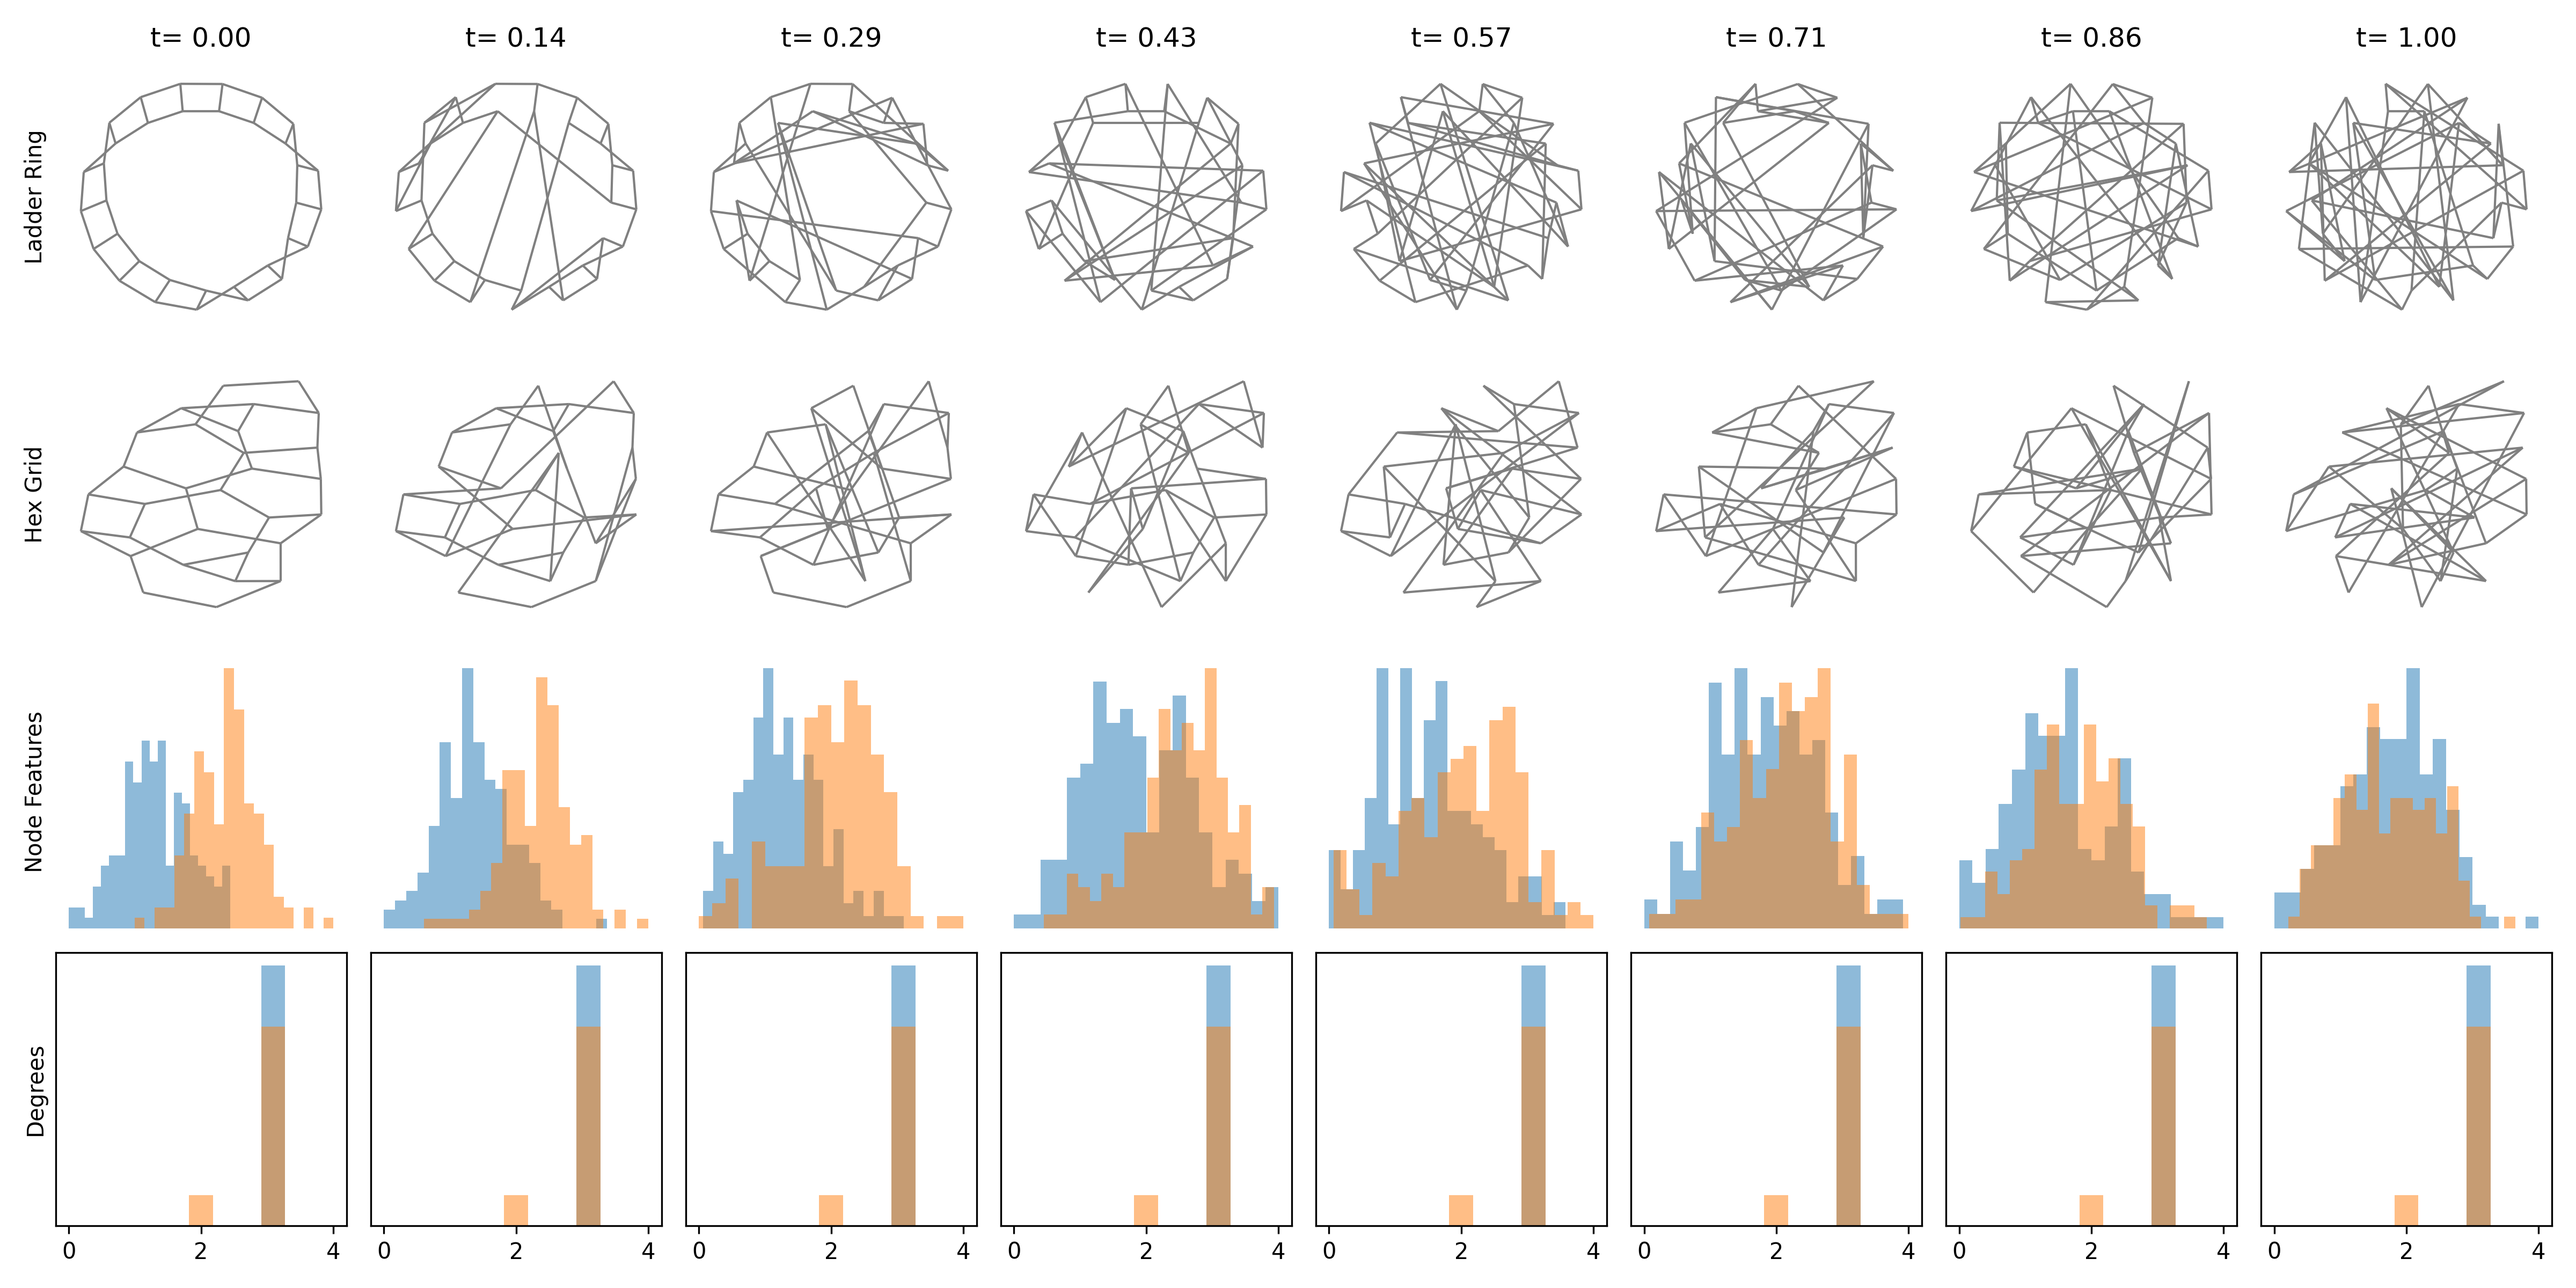
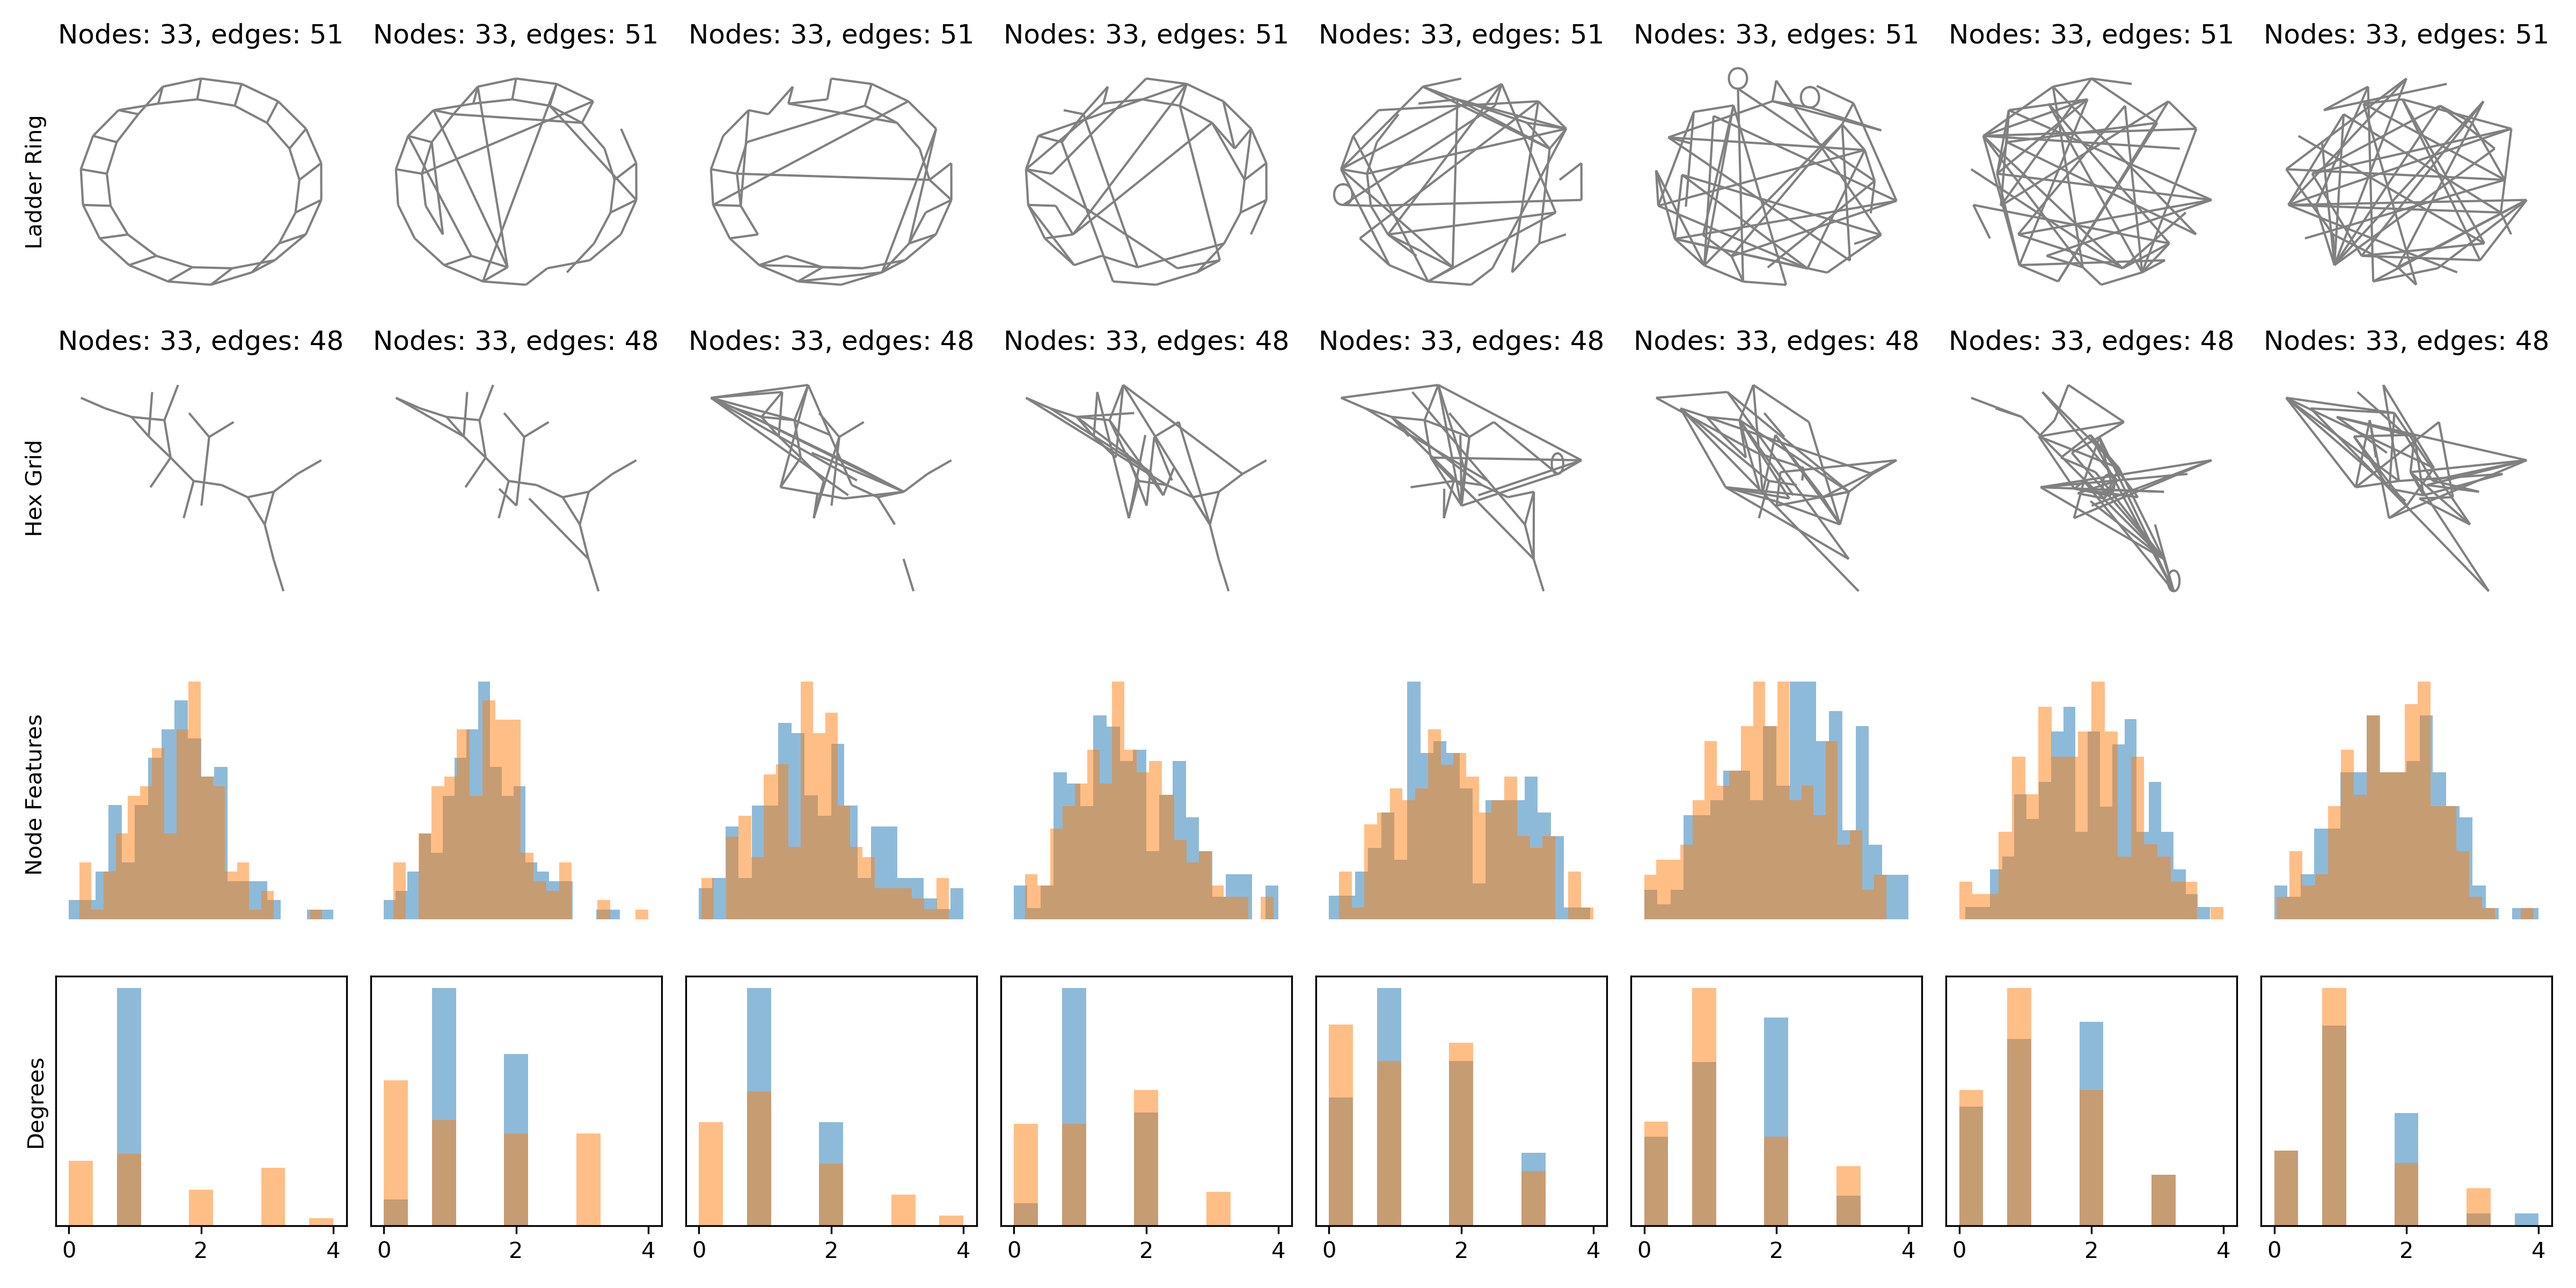
New second structure is erdos-renyi, fit to match one a ring ladder

diff --git a/synthetic_datasets.py b/synthetic_datasets.py
@@ -6,7 +6,7 @@ import networkx as nx
 from tqdm import tqdm
 from random import random
 from torch_geometric.data import Data, InMemoryDataset
-from torch_geometric.utils import to_networkx
+from torch_geometric.utils import to_networkx, erdos_renyi_graph
 import networkx as nx
 import copy
 
@@ -61,8 +61,8 @@ def noise_and_visualise(dataset):
     d0 = dataset[index_label_0]
     d1 = dataset[index_label_1]
     
-    g0 = pyg_to_networkx_connected(d0)
-    g1 = pyg_to_networkx_connected(d1)
+    g0 = to_networkx(d0)
+    g1 = to_networkx(d1)
     pos0 = nx.kamada_kawai_layout(g0)
     pos1 = nx.kamada_kawai_layout(g1)
 
@@ -76,6 +76,8 @@ def noise_and_visualise(dataset):
         g0 = to_networkx(d0_noisy, to_undirected=True)
         g1 = to_networkx(d1_noisy, to_undirected=True)
         
+        axes[0,i].set_title(f"Nodes: {d0_noisy.num_nodes}, edges: {d0_noisy.num_edges}")
+        axes[1,i].set_title(f"Nodes: {d1_noisy.num_nodes}, edges: {d1_noisy.num_edges}")
 
         nx.draw_networkx_edges(g0, pos = pos0, ax=axes[0, i], node_size=0, edge_color="gray")
         nx.draw_networkx_edges(g1, pos = pos1, ax=axes[1, i], node_size=0, edge_color="gray")
@@ -190,7 +192,7 @@ def generate_circular_ladder_graph(num_edges: int) -> Data:
     edge_index = torch.tensor(edges, dtype=torch.long).T
 
     # Create PyTorch Geometric Data object
-    data = Data(edge_index=edge_index)
+    data = Data(edge_index=edge_index, num_nodes = torch.max(torch.unique(edge_index)))
 
     return data
 
@@ -251,6 +253,19 @@ def generate_triangular_grid(resolution=3):
 
 
 
+def erdos_renyi_from_data(data):
+    """Generates a random graph of the same density as the input"""
+    n_nodes = data.num_nodes
+    n_edges = data.num_edges
+
+    potential_connections = (n_nodes**2) 
+
+    density = n_edges / potential_connections
+    data.edge_index = erdos_renyi_graph(num_nodes=n_nodes, edge_prob=density, directed=False)
+    return data
+
+
+
 class SyntheticDataset(InMemoryDataset):
     def __init__(self, root, label_type, num_samples=8000, transform=None, pre_transform=None):
         self.label_type = label_type
@@ -287,20 +302,24 @@ class SyntheticDataset(InMemoryDataset):
             # resolution = np.random.randint(2, 4)
             # sphere_edges = 3 * 2 ** (2 * resolution) * 10  # Approximate edge count for sphere
             # triangle_resolution = int(np.round((np.sqrt(2 * sphere_edges / 3) - 1), decimals=0))  # Adjust for edges
-            width = np.random.randint(3, 4)
-            height = np.random.randint(3, 4)
+            # width = np.random.randint(2, 4)
+            # height = np.random.randint(2, 4)
 
-            num_edges = 3*width*height - (width+height+3)/2 + 2*(width + height)
-            # num_edges = int(2*np.random.randint(24,256))
+            # num_edges = 3*width*height - (width+height+3)/2 + 2*(width + height)
+            num_edges = int(2*np.random.randint(24,256))
+
+            # num_edges = 
 
             is_sphere = random() > 0.5
             structure_label = 1 if is_sphere else 0    
             feature_label = 1 if random() > 0.5 else 0
 
+            # if is_sphere:
+            #     data = generate_hexagonal_grid_graph(width = width, height = height)
+            # else:
+            data = generate_circular_ladder_graph(num_edges=num_edges)
             if is_sphere:
-                data = generate_hexagonal_grid_graph(width = width, height = height)
-            else:
-                data = generate_circular_ladder_graph(num_edges=num_edges)
+                data = erdos_renyi_from_data(data)
 
             # mean = 1 if random() > 0.5 else -1
             data = generate_bimodal_nodes(data, mean=2*(feature_label-0.5))
@@ -356,11 +375,11 @@ class SyntheticDouble(InMemoryDataset):
             # resolution = np.random.randint(2, 4)
             # sphere_edges = 3 * 2 ** (2 * resolution) * 10  # Approximate edge count for sphere
             # triangle_resolution = int(np.round((np.sqrt(2 * sphere_edges / 3) - 1), decimals=0))  # Adjust for edges
-            width = np.random.randint(2, 8)
-            height = np.random.randint(2, 8)
+            # width = np.random.randint(2, 8)
+            # height = np.random.randint(2, 8)
 
-            num_edges = 3*width*height - (width+height+3)/2 + 2*(width + height)
-            # num_edges = int(2*np.random.randint(24,256))
+            # num_edges = 3*width*height - (width+height+3)/2 + 2*(width + height)
+            num_edges = int(2*np.random.randint(24,256))
 
 
             if is_coupled:
@@ -382,10 +401,14 @@ class SyntheticDouble(InMemoryDataset):
             # structure_label = 1 if is_sphere else 0    
             # feature_label = 1 if random() > 0.5 else 0
 
-            if is_ladder:
-                data = generate_hexagonal_grid_graph(width = width, height = height)
-            else:
-                data = generate_circular_ladder_graph(num_edges=num_edges)
+            # if is_ladder:
+            #     data = generate_hexagonal_grid_graph(width = width, height = height)
+            # else:
+            #     data = generate_circular_ladder_graph(num_edges=num_edges)
+
+            data = generate_circular_ladder_graph(num_edges=num_edges)
+            if not is_ladder:
+                data = erdos_renyi_from_data(data)
 
             # mean = 1 if random() > 0.5 else -1
             data = generate_bimodal_nodes(data, mean= -1 if is_neg_mean else 1)

diff --git a/noisenoise/functions.py b/noisenoise/functions.py
@@ -4,7 +4,7 @@ from .feature_noise import add_continuous_feature_noise, add_discrete_feature_no
 from .structure_noise import add_structure_noise, add_structure_noise_degree_preserving
 
 def add_noise_to_graph(data, t_structure, t_feature):
-    data = add_structure_noise_degree_preserving(data, t_structure)
+    data = add_structure_noise(data, t_structure)
     # data = add_discrete_feature_noise(data, t_feature)
     # data = shuffle_categorical_feature_noise(data, t_feature)
     # data = add_continuous_feature_noise(data, t_feature)
